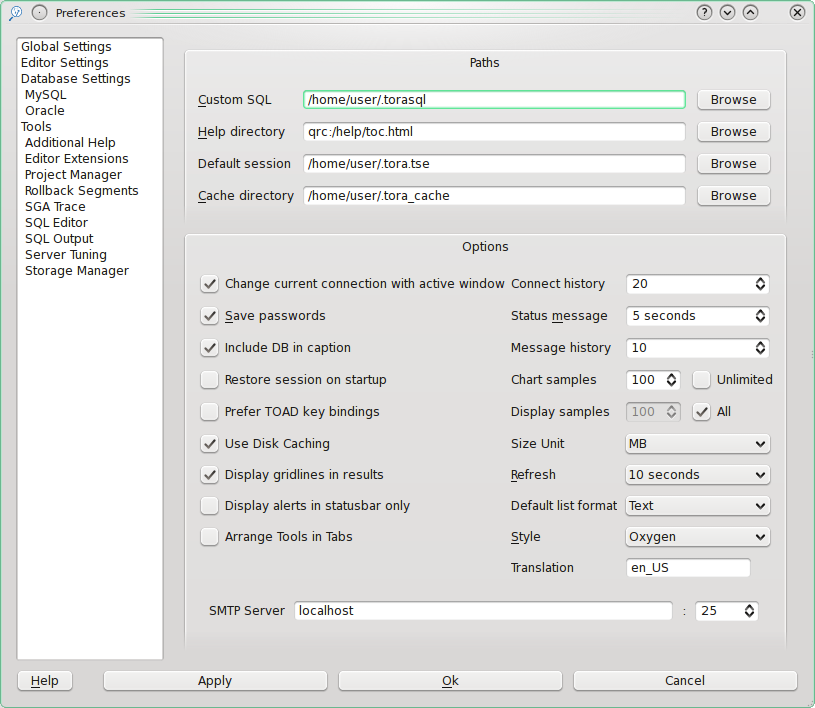
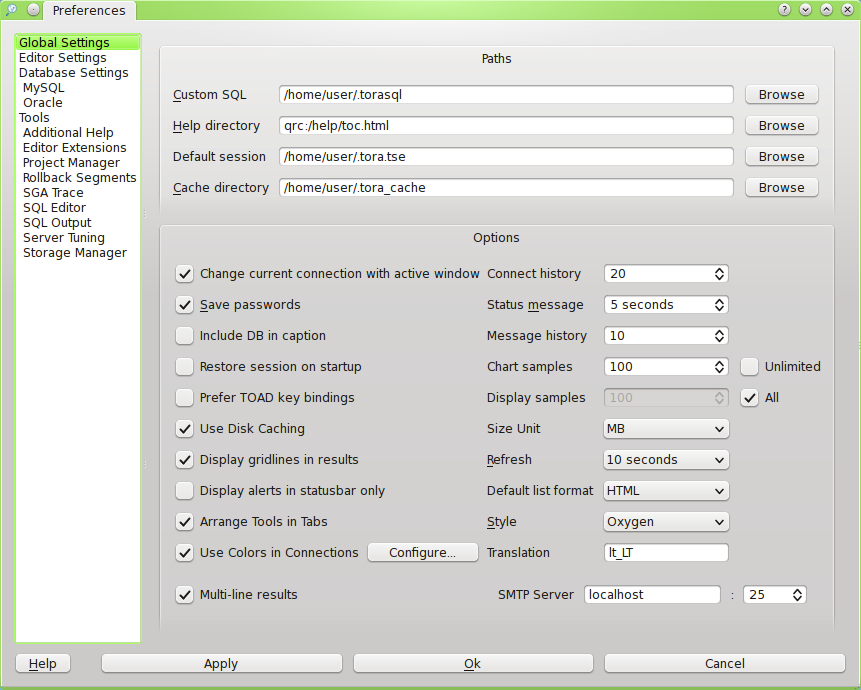
Multi-line table cells

Changed region(s): [[0.0, 0.0, 1.0, 1.0], [0.5521, 0.3348, 0.6135, 0.3652]]

diff --git a/doc/help/globalsettings.html b/doc/help/globalsettings.html
@@ -39,24 +39,30 @@ Up:&nbsp;<a rel="up" accesskey="u" href="preferences.html#preferences">preferenc
    <p><table summary=""><tr align="left"><td valign="top" width="20%"><strong>Custom SQL</strong> </td><td valign="top" width="80%">The file in which to store your custom SQL. For more information about custom SQL and the SQL dictionary (see <a href="sqledit.html#sqledit">SQL Editor tool</a>. The string <samp><span class="env">$HOME</span></samp> will be replaced by your home directory on UNIX or documents directory in Windows. 
 <br></td></tr><tr align="left"><td valign="top" width="20%"><strong>Help directory</strong> </td><td valign="top" width="80%">Should point to where the TOra help table of contents file is stored (toc.html). This should be set up correctly if you made a normal install. 
 <br></td></tr><tr align="left"><td valign="top" width="20%"><strong>Plugin directory</strong> </td><td valign="top" width="80%">This option is only available in a plugin based TOra installation. It should point to the directory where the plugins for TOra are located. It should be set up correctly on installation if needed. 
+<br></td></tr><tr align="left"><td valign="top" width="20%"><strong>Default session</strong> </td><td valign="top" width="80%">TODO. 
 <br></td></tr><tr align="left"><td valign="top" width="20%"><strong>Cache directory</strong> </td><td valign="top" width="80%">Should point to where the TOra Disk Cache files are stored. There is one file for each Connection. 
 <br></td></tr><tr align="left"><td valign="top" width="20%"><strong>Change current connection with active window</strong> </td><td valign="top" width="80%">If this option is set, changing the current window will also change the current connection to that of the active window. The connection is only changed when you change window so if you want to change the connection to something else you can still do so as long as you don't change the window. 
-<br></td></tr><tr align="left"><td valign="top" width="20%"><strong>Save last password</strong> </td><td valign="top" width="80%">Whether or not TOra should store the last password used to connect. <strong>Be aware that the password is store in clear text in either the windows registry or a file.</strong>
+<br></td></tr><tr align="left"><td valign="top" width="20%"><strong>Save passwords</strong> </td><td valign="top" width="80%">Whether or not TOra should store the passwords used to connect. <strong>Be aware that the passwords are stored in clear text in either the windows registry or a file.</strong>
 <br></td></tr><tr align="left"><td valign="top" width="20%"><strong>Include DB in caption</strong> </td><td valign="top" width="80%">If this is set the database name will be included in the caption of all your tool windows after the tool name. Observe that there often is no other way of knowing which database the window works on except for this. 
-<br></td></tr><tr align="left"><td valign="top" width="20%"><strong>Maximize window on start</strong> </td><td valign="top" width="80%">If this is checked the TOra main window will open maximized on startup. 
-<br></td></tr><tr align="left"><td valign="top" width="20%"><strong>Desktop Aware</strong> </td><td valign="top" width="80%">Set this if Qt should try to figure out and interact nicely with the desktop environment. The reason for this switch is that in some versions of KDE TOra doesn't look nice if this is checked. This switch is only available for Qt only applications. 
-<br></td></tr><tr align="left"><td valign="top" width="20%"><strong>use Disk Cache</strong> </td><td valign="top" width="80%">This option tells TOra to Cache the Object List in the Cache Directory. Default is No Caching. When Caching is activated, you have to refresh the object cache with the menu option File-&gt;Reread Object Cache, because, the default source for the Object List is the diskfile. 
-<br></td></tr><tr align="left"><td valign="top" width="20%"><strong>Antialias fonts</strong>  </td><td valign="top" width="80%">Check this if you want TOra to use antialiased fonts in X11 if available. This option may not be available (Regardless of if you have access to antialiased fonts or not). 
-<br></td></tr><tr align="left"><td valign="top" width="20%"><strong>Docks use toolbars</strong>  </td><td valign="top" width="80%">This option tells TOra how to emulate docked windows when they are not available. Docked windows are not available if you do not use KDE and have a Qt version less than 3 (If you run in windows you're it). If this is checked docks will be emulated with a toolbar, this has the drawback that you can't resize them. If unchecked docks appear in normal windows. 
-<br></td></tr><tr align="left"><td valign="top" width="20%"><strong>Style</strong>  </td><td valign="top" width="80%">The GUI style to use for the TOra application. This switch is only available for Qt only applications. 
+<br></td></tr><tr align="left"><td valign="top" width="20%"><strong>Restore session on startup</strong> </td><td valign="top" width="80%">TODO. 
+<br></td></tr><tr align="left"><td valign="top" width="20%"><strong>Prefer TOAD key bindings</strong> </td><td valign="top" width="80%">TODO. 
+<br></td></tr><tr align="left"><td valign="top" width="20%"><strong>Use Disk Caching</strong> </td><td valign="top" width="80%">This option tells TOra to Cache the Object List in the Cache Directory. Default is No Caching. When Caching is activated, you have to refresh the object cache with the menu option File-&gt;Reread Object Cache, because, the default source for the Object List is the diskfile. 
+<br></td></tr><tr align="left"><td valign="top" width="20%"><strong>Display gridlines in results</strong>  </td><td valign="top" width="80%">TODO. 
 <br></td></tr><tr align="left"><td valign="top" width="20%"><strong>Display alerts in statusbar only</strong>	 </td><td valign="top" width="80%">Display errors only in the statusbar. This is really useful since it doesn't interrupt you as much as a dialog window as long as you know to look for information in the statusbar when things doesn't work. 
+<br></td></tr><tr align="left"><td valign="top" width="20%"><strong>Arrange Tools in Tabs</strong>	 </td><td valign="top" width="80%">TODO. 
+<br></td></tr><tr align="left"><td valign="top" width="20%"><strong>User Colours in Connections</strong>	 </td><td valign="top" width="80%">TODO. 
+<br></td></tr><tr align="left"><td valign="top" width="20%"><strong>Multi-line results</strong>	 </td><td valign="top" width="80%">All tables in all tools (Schema browser, SQL editor, Session list etc.) will have multi-line cells if text contains more than one line or if it does not fit into one cell horizontally. 
 <br></td></tr><tr align="left"><td valign="top" width="20%"><strong>Connect history</strong>	 </td><td valign="top" width="80%">How many connection entries to save in the new connection history list. 
-<br></td></tr><tr align="left"><td valign="top" width="20%"><strong>Table scale</strong>  </td><td valign="top" width="80%">This is the scale which to use when printing lists. Lists on paper can usually be a little smaller and still be readable. Given as a fraction where 0.5 means half the size on paper and 1.0 the same size. 
 <br></td></tr><tr align="left"><td valign="top" width="20%"><strong>Status message</strong>  </td><td valign="top" width="80%">The number of seconds to display error messages in the status bar. If you specify 0 they are kept until the next message is displayed. 
 <br></td></tr><tr align="left"><td valign="top" width="20%"><strong>Message history</strong>	 </td><td valign="top" width="80%">The number of status messages to store in the status message history before the oldest are removed when new are added. 
 <br></td></tr><tr align="left"><td valign="top" width="20%"><strong>Chart samples</strong>  </td><td valign="top" width="80%">Number of samples to save by default in charts. 
+<br></td></tr><tr align="left"><td valign="top" width="20%"><strong>Display samples</strong>	 </td><td valign="top" width="80%">TODO. 
 <br></td></tr><tr align="left"><td valign="top" width="20%"><strong>Size Unit</strong>  </td><td valign="top" width="80%">The unit to display sizes with in TOra. 
-<br></td></tr><tr align="left"><td valign="top" width="20%"><strong>Refresh</strong>	 </td><td valign="top" width="80%">The default refresh time to use in TOra. Tools which refresh automatically use this setting as the default. It can also be changed on a per tool basis.
+<br></td></tr><tr align="left"><td valign="top" width="20%"><strong>Refresh</strong>	 </td><td valign="top" width="80%">The default refresh time to use in TOra. Tools which refresh automatically use this setting as the default. It can also be changed on a per tool basis. 
+<br></td></tr><tr align="left"><td valign="top" width="20%"><strong>Default format</strong>	 </td><td valign="top" width="80%">TODO. 
+<br></td></tr><tr align="left"><td valign="top" width="20%"><strong>Style</strong>  </td><td valign="top" width="80%">The GUI style to use for the TOra application. This switch is only available for Qt only applications. 
+<br></td></tr><tr align="left"><td valign="top" width="20%"><strong>Translation</strong>	 </td><td valign="top" width="80%">TODO. 
+<br></td></tr><tr align="left"><td valign="top" width="20%"><strong>SMTP Server</strong>	 </td><td valign="top" width="80%">TODO.
    <br></td></tr></table>
 
    </body></html>

diff --git a/src/toresulttableview.cpp b/src/toresulttableview.cpp
@@ -129,11 +129,6 @@ void toResultTableView::setup(bool readable, bool numberColumn, bool editable)
     connect(Working, SIGNAL(stop()), this, SLOT(stop()));
     Working->hide(); // hide by default
 
-    // set item delegate if default. Don't replace custom set delegate
-    QAbstractItemDelegate *del = itemDelegate();
-    if(dynamic_cast<toResultTableViewDelegate *>(del) == 0)
-        setItemDelegate(new toResultTableViewDelegate(this));
-
     createActions();
 
     setSelectionBehavior(QAbstractItemView::SelectItems);
@@ -292,11 +287,31 @@ void toResultTableView::applyFilter()
 }
 
 
+/* Controls height of all table views in TOra. Will use standart Qt function to
+   calculate a row height and will control that it is not larger than a predefined
+   size. Note: this height is only used in QTableView when resizeRowsToContents
+   is called. */
 int toResultTableView::sizeHintForRow(int row) const
 {
-    return 5;
-}
+    int s;
 
+    s = QTableView::sizeHintForRow(row);
+    if (s > 60) s = 60; // TODO: This should probably be moved to configuration file
+    return s;
+} // sizeHintForRow
+
+/* Controls width of all table views in TOra. Will use standart Qt function to
+   calculate a columns width and will control that it is not larger than a predefined
+   size. Note: this height is only used in QTableView when resizeColumnsToContents
+   is called. Column width is also adjusted when calculating width of column headers! */
+int toResultTableView::sizeHintForColumn(int col) const
+{
+    int s;
+
+    s = QTableView::sizeHintForColumn(col);
+    if (s > 200) s = 200; // TODO: This should probably be moved to configuration file
+    return s;
+} // sizeHintForColumn
 
 void toResultTableView::paintEvent(QPaintEvent *event)
 {
@@ -360,6 +375,8 @@ void toResultTableView::applyColumnRules()
     ColumnsResized = false;
 
     resizeColumnsToContents();
+    if (toConfigurationSingle::Instance().multiLineResults())
+        resizeRowsToContents();
 
     if (VisibleColumns == 1 && ReadableColumns)
         setColumnWidth(1, viewport()->width());
@@ -631,6 +648,14 @@ void toResultTableView::setModel(toResultModel *model)
 //         throw tr("Cannot change model while query is running.");
     Model = QPointer<toResultModel>(model);
     QTableView::setModel(model);
+    // After data model is set we need to connect to it's signal dataChanged. This signal
+    // will be emitted after sorting on column and we need to resize Row's again then
+    // because height of rows do not "move" together with their rows when sorting.
+    if (toConfigurationSingle::Instance().multiLineResults())
+        connect(model,
+                SIGNAL(dataChanged(const QModelIndex &, const QModelIndex &)),
+                this,
+                SLOT(resizeRowsToContents()));
 }
 
 
@@ -762,6 +787,10 @@ void toResultTableView::resizeColumnsToContents()
 void toResultTableView::columnWasResized(int, int, int)
 {
     ColumnsResized = true;
+    // After resizing columns it could happen that different amount of vertical
+    // space is required to display all information therefore we resize Rows.
+    if (toConfigurationSingle::Instance().multiLineResults())
+        resizeRowsToContents();
 }
 
 
@@ -771,8 +800,6 @@ void toResultTableView::refresh()
     // didn't work.
     toResult::refresh();
 }
-
-
 
 // ---------------------------------------- iterator
 

diff --git a/src/toconfiguration.cpp b/src/toconfiguration.cpp
@@ -104,6 +104,7 @@ public:
     int     m_autoLong;
     bool    m_messageStatusbar;
     bool    m_tabbedTools;
+    bool    m_multiLineResults;
     bool    m_colorizedConnections;
     ConnectionColors m_connectionColors;
     int     m_objectCache;
@@ -335,6 +336,7 @@ public:
         m_autoLong = s.value(CONF_AUTO_LONG, 0).toInt();
         m_messageStatusbar = s.value(CONF_MESSAGE_STATUSBAR, false).toBool();
         m_tabbedTools = s.value(CONF_TABBED_TOOLS, true).toBool();
+        m_multiLineResults = s.value(CONF_MULTI_LINE_RESULTS, DEFAULT_MULTI_LINE_RESULTS).toBool();
         m_colorizedConnections = s.value("ColorizedConnections", true).toBool();
         cnt = s.beginReadArray("ConnectionColors");
         for (int i = 0; i < cnt; ++i)
@@ -567,6 +569,7 @@ public:
         s.setValue(CONF_AUTO_LONG, m_autoLong);
         s.setValue(CONF_MESSAGE_STATUSBAR, m_messageStatusbar);
         s.setValue(CONF_TABBED_TOOLS, m_tabbedTools);
+        s.setValue(CONF_MULTI_LINE_RESULTS, m_multiLineResults);
 
         s.setValue("ColorizedConnections", m_colorizedConnections);
         s.beginWriteArray("ConnectionColors");
@@ -1355,6 +1358,15 @@ bool toConfiguration::tabbedTools()
 void toConfiguration::setTabbedTools(bool v)
 {
     p->m_tabbedTools = v;
+}
+
+bool toConfiguration::multiLineResults()
+{
+    return p->m_multiLineResults;
+}
+void toConfiguration::setMultiLineResults(bool v)
+{
+    p->m_multiLineResults = v;
 }
 
 bool toConfiguration::colorizedConnections()

diff --git a/src/toresulttableview.h b/src/toresulttableview.h
@@ -67,35 +67,6 @@ class toTableViewIterator;
 class toWorkingWidget;
 class toExportSettings;
 
-
-/**
- * This is a simple class for providing sensible size hints to the
- * view.
- *
- */
-class toResultTableViewDelegate : public QItemDelegate
-{
-    static const int maxWidth = 200; // the maximum size to grow a column
-
-public:
-    toResultTableViewDelegate(QObject *parent = 0)
-        : QItemDelegate(parent)
-    {
-    }
-
-
-    virtual QSize sizeHint(const QStyleOptionViewItem &option,
-                           const QModelIndex &index) const
-    {
-        QSize size = QItemDelegate::sizeHint(option, index);
-        if (size.width() > maxWidth)
-            size.setWidth(maxWidth);
-
-        return size;
-    }
-};
-
-
 class toResultTableView : public QTableView,
     public toResult,
     public toEditWidget
@@ -187,12 +158,16 @@ protected:
     /**
      * overridden from parent.
      *
-     * Returns the size hint for the given row's height or -1 if there
-     * is no model.
-     *
+     * Controls maximum size (height) of a given row.
      */
     virtual int sizeHintForRow(int row) const;
 
+    /**
+     * overridden from parent.
+     *
+     * Controls a maximum size (width) of a given column.
+     */
+    virtual int sizeHintForColumn(int col) const;
 
     /**
      * overrides parent to overlay working working message until model

diff --git a/src/toglobalsetting.cpp b/src/toglobalsetting.cpp
@@ -145,6 +145,7 @@ toGlobalSetting::toGlobalSetting(QWidget *parent, const char *name, Qt::WFlags f
     IncludeDB->setChecked(toConfigurationSingle::Instance().dbTitle());
     Statusbar->setChecked(toConfigurationSingle::Instance().messageStatusbar());
     TabbedTools->setChecked(toConfigurationSingle::Instance().tabbedTools());
+    MultiLineResults->setChecked(toConfigurationSingle::Instance().multiLineResults());
     ColorizedConnections->setChecked(toConfigurationSingle::Instance().colorizedConnections());
     connect(ColorizedConnectionsConfigure, SIGNAL(clicked()),
             this, SLOT(ColorizedConnectionsConfigure_clicked()));
@@ -270,6 +271,7 @@ void toGlobalSetting::saveSetting(void)
     toConfigurationSingle::Instance().setConnectSize(ConnectHistory->value());
     toConfigurationSingle::Instance().setMessageStatusbar(Statusbar->isChecked());
     toConfigurationSingle::Instance().setTabbedTools(TabbedTools->isChecked());
+    toConfigurationSingle::Instance().setMultiLineResults(MultiLineResults->isChecked());
     toConfigurationSingle::Instance().setColorizedConnections(ColorizedConnections->isChecked());
     toConfigurationSingle::Instance().setRestoreSession(RestoreSession->isChecked());
     toConfigurationSingle::Instance().setDefaultFormat(DefaultFormat->currentIndex());

diff --git a/src/toconf.h b/src/toconf.h
@@ -112,6 +112,8 @@
 #define CONF_AUTO_LONG  "AutoLong"
 #define CONF_MESSAGE_STATUSBAR "MessageStatusbar"
 #define CONF_TABBED_TOOLS "TabbedTools"
+#define CONF_MULTI_LINE_RESULTS "MultiLineResults"
+#define DEFAULT_MULTI_LINE_RESULTS 0 // default false
 #define CONF_OBJECT_CACHE "ObjectCache"
 #define DEFAULT_OBJECT_CACHE 1
 #define CONF_BKGND_CONNECT "BackgroundConnect"

diff --git a/src/toconfiguration.h b/src/toconfiguration.h
@@ -184,6 +184,9 @@ public:
     bool tabbedTools();
     void setTabbedTools(bool v);
 
+    bool multiLineResults();
+    void setMultiLineResults(bool v);
+
     bool colorizedConnections();
     void setColorizedConnections(bool v);
     ConnectionColors connectionColors();
